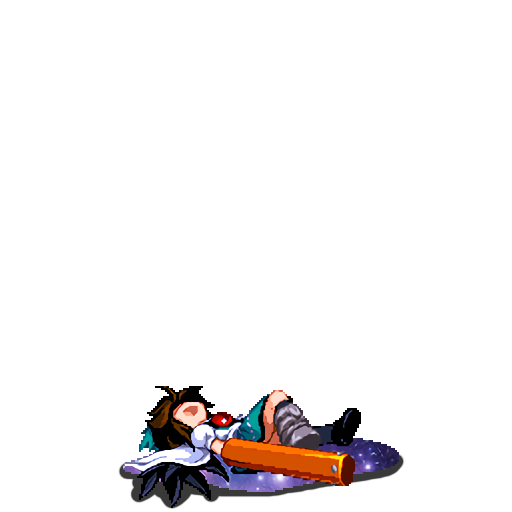
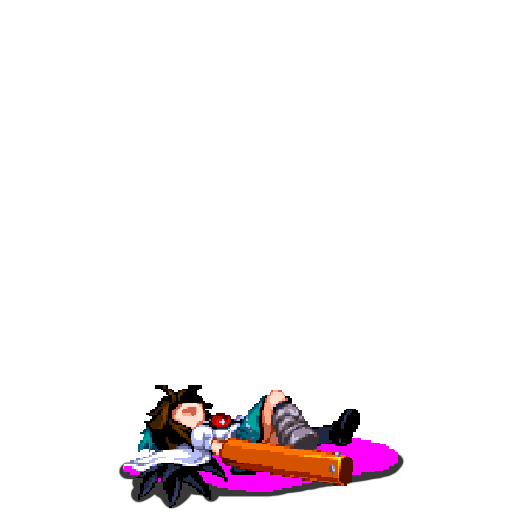
Added a downed animation, working on changing the Chroma Key from a patch to a character function

Changed region(s): [[0.2188, 0.75, 0.7812, 1.0]]

diff --git a/src/main/java/utsuhoReiuji/characters/UtsuhoReiuji.java b/src/main/java/utsuhoReiuji/characters/UtsuhoReiuji.java
@@ -3,9 +3,13 @@ package utsuhoReiuji.characters;
 import basemod.abstracts.CustomPlayer;
 import basemod.animations.SpineAnimation;
 import basemod.animations.SpriterAnimation;
+import com.badlogic.gdx.Gdx;
 import com.badlogic.gdx.graphics.Color;
+import com.badlogic.gdx.graphics.GL20;
 import com.badlogic.gdx.graphics.Texture;
 import com.badlogic.gdx.graphics.g2d.BitmapFont;
+import com.badlogic.gdx.graphics.g2d.SpriteBatch;
+import com.badlogic.gdx.graphics.glutils.ShaderProgram;
 import com.badlogic.gdx.math.MathUtils;
 import com.esotericsoftware.spine.AnimationState;
 import com.evacipated.cardcrawl.modthespire.lib.SpireEnum;
@@ -16,10 +20,15 @@ import com.megacrit.cardcrawl.characters.AbstractPlayer;
 import com.megacrit.cardcrawl.core.CardCrawlGame;
 import com.megacrit.cardcrawl.core.EnergyManager;
 import com.megacrit.cardcrawl.core.Settings;
+import com.megacrit.cardcrawl.dungeons.AbstractDungeon;
 import com.megacrit.cardcrawl.helpers.CardLibrary;
 import com.megacrit.cardcrawl.helpers.FontHelper;
 import com.megacrit.cardcrawl.helpers.ScreenShake;
 import com.megacrit.cardcrawl.localization.CharacterStrings;
+import com.megacrit.cardcrawl.orbs.AbstractOrb;
+import com.megacrit.cardcrawl.rooms.AbstractRoom;
+import com.megacrit.cardcrawl.rooms.MonsterRoom;
+import com.megacrit.cardcrawl.rooms.RestRoom;
 import com.megacrit.cardcrawl.screens.CharSelectInfo;
 import com.megacrit.cardcrawl.unlock.UnlockTracker;
 import org.apache.logging.log4j.LogManager;
@@ -32,6 +41,7 @@ import utsuhoReiuji.relics.PlaceholderRelic;
 import utsuhoReiuji.relics.PlaceholderRelic2;
 
 import java.util.ArrayList;
+import java.util.Iterator;
 
 import static utsuhoReiuji.OkuuMod.*;
 import static utsuhoReiuji.characters.UtsuhoReiuji.Enums.REIUJI_GREEN;
@@ -137,11 +147,13 @@ public class UtsuhoReiuji extends CustomPlayer {
 
         this.stateData.setMix("Idle", "PhysicalAttack", 0.2f);
         this.stateData.setMix("PhysicalAttack", "Idle", 0.2f);
+        this.stateData.setMix("Idle", "Death", 0.0f);
+        this.stateData.setMix("PhysicalAttack", "Death", 0.0f);
 
 
         AnimationState.TrackEntry e = state.setAnimation(0, "Idle", true);
         e.setTime(e.getEndTime() * MathUtils.random());
-//        e.setTimeScale(0.8f);
+        e.setTimeScale(1f);
 
         // =============== /ANIMATIONS/ =================
 
@@ -161,6 +173,7 @@ public class UtsuhoReiuji extends CustomPlayer {
     public void useFastAttackAnimation(){
         AnimationState.TrackEntry e = state.setAnimation(0, "PhysicalAttack", false);
         state.addAnimation(0,"Idle", true, 1.1f);
+        e.setTimeScale(1f);
     }
 
     @Override
@@ -169,13 +182,110 @@ public class UtsuhoReiuji extends CustomPlayer {
         if (info.owner != null && info.type != DamageInfo.DamageType.THORNS && info.output > currentBlock) {
             AnimationState.TrackEntry e = state.setAnimation(0, "Hit", false);
             state.addAnimation(0,"Idle", true, 0.3f);
-            //e.setTimeScale(1f);
+            e.setTimeScale(1f);
         }
         super.damage(info);
     }
 
+    @Override
+    public void playDeathAnimation(){
+        AnimationState.TrackEntry e = state.setAnimation(0, "Death", false);
+        e.setTimeScale(0.5f);
+        //state.addAnimation(0,"Death", false, 0f);
+    }
+
 
     // =========== /ATTACK AND HIT ANIMATIONS/ =====================
+
+    //====================== SHADERS ========================
+
+
+    public static ShaderProgram shader = new ShaderProgram(
+            Gdx.files.internal("E:/Game Projects/tools/shaders/vertexShader.vs"),
+            Gdx.files.internal("E:/Game Projects/tools/shaders/fragShader.fs")
+    );
+
+    private static Texture galaxyTexture = new Texture(Gdx.files.internal("utsuhoReiujiResources/images/char/okuuSprites/loopingGalaxy.png"));
+
+    public static float currentTime = 0.0f;
+
+    @Override
+    public void renderPlayerImage(SpriteBatch sb){
+        if (this.atlas != null) {
+            this.state.update(Gdx.graphics.getDeltaTime());
+            this.state.apply(this.skeleton);
+            this.skeleton.updateWorldTransform();
+            currentTime += Gdx.graphics.getDeltaTime();
+            shader.begin();
+            CardCrawlGame.psb.setShader(shader);
+            shader.setUniformf("Time", currentTime);
+            galaxyTexture.bind(1);
+            Gdx.gl.glTexParameterf(GL20.GL_TEXTURE_2D, GL20.GL_TEXTURE_WRAP_S, GL20.GL_REPEAT);
+            Gdx.gl.glTexParameterf(GL20.GL_TEXTURE_2D, GL20.GL_TEXTURE_WRAP_T, GL20.GL_REPEAT);
+            shader.setUniformi("u_galaxyTexture", 1);
+            Gdx.gl.glActiveTexture(GL20.GL_TEXTURE0);
+            this.skeleton.setPosition(this.drawX + this.animX, this.drawY + this.animY);
+            this.skeleton.setColor(this.tint.color);
+            this.skeleton.setFlip(this.flipHorizontal, this.flipVertical);
+            CardCrawlGame.psb.setShader(null);
+            shader.end();
+            sb.end();
+            CardCrawlGame.psb.begin();
+            sr.draw(CardCrawlGame.psb, this.skeleton);
+            CardCrawlGame.psb.end();
+            sb.begin();
+        } else {
+            sb.setColor(Color.WHITE);
+            sb.draw(this.img, this.drawX - (float)this.img.getWidth() * Settings.scale / 2.0F + this.animX, this.drawY, (float)this.img.getWidth() * Settings.scale, (float)this.img.getHeight() * Settings.scale, 0, 0, this.img.getWidth(), this.img.getHeight(), this.flipHorizontal, this.flipVertical);
+        }
+    }
+
+    /*@Override
+    public void render(SpriteBatch sb){
+        this.stance.render(sb);
+        if ((AbstractDungeon.getCurrRoom().phase == AbstractRoom.RoomPhase.COMBAT || AbstractDungeon.getCurrRoom() instanceof MonsterRoom) && !this.isDead) {
+            this.renderHealth(sb);
+            if (!this.orbs.isEmpty()) {
+                Iterator var2 = this.orbs.iterator();
+
+                while(var2.hasNext()) {
+                    AbstractOrb o = (AbstractOrb)var2.next();
+                    o.render(sb);
+                }
+            }
+        }
+
+        if (!(AbstractDungeon.getCurrRoom() instanceof RestRoom)) {
+            currentTime += Gdx.graphics.getDeltaTime();
+            if (atlas == null) {
+                shader.begin();
+                sb.setShader(shader);
+                shader.setUniformf("Time", currentTime);
+                galaxyTexture.bind(1);
+                Gdx.gl.glTexParameterf(GL20.GL_TEXTURE_2D, GL20.GL_TEXTURE_WRAP_S, GL20.GL_REPEAT);
+                Gdx.gl.glTexParameterf(GL20.GL_TEXTURE_2D, GL20.GL_TEXTURE_WRAP_T, GL20.GL_REPEAT);
+                shader.setUniformi("u_galaxyTexture", 1);
+                Gdx.gl.glActiveTexture(GL20.GL_TEXTURE0);
+            }
+            if (this.atlas != null) {
+
+                this.renderPlayerImage(sb);
+            } else {
+                sb.setColor(Color.WHITE);
+                sb.draw(this.img, this.drawX - (float)this.img.getWidth() * Settings.scale / 2.0F + this.animX, this.drawY, (float)this.img.getWidth() * Settings.scale, (float)this.img.getHeight() * Settings.scale, 0, 0, this.img.getWidth(), this.img.getHeight(), this.flipHorizontal, this.flipVertical);
+            }
+            if (atlas == null) {
+                sb.setShader(null);
+                shader.end();
+            }
+            this.hb.render(sb);
+            this.healthHb.render(sb);
+        } else {
+            sb.setColor(Color.WHITE);
+            this.renderShoulderImg(sb);
+        }
+    }*/
+    // ===================== /SHADERS/ =====================
 
     // =============== /CHARACTER CLASS END/ =================
 

diff --git a/src/main/java/utsuhoReiuji/OkuuMod.java b/src/main/java/utsuhoReiuji/OkuuMod.java
@@ -29,8 +29,6 @@ import utsuhoReiuji.cards.*;
 import utsuhoReiuji.cards.defaultCards.*;
 import utsuhoReiuji.characters.UtsuhoReiuji;
 import utsuhoReiuji.events.IdentityCrisisEvent;
-import utsuhoReiuji.patches.GalaxyChromaKeyRenderPatch;
-import utsuhoReiuji.patches.GalaxyChromaKeySkeletonPatch;
 import utsuhoReiuji.potions.PlaceholderPotion;
 import utsuhoReiuji.relics.BottledPlaceholderRelic;
 import utsuhoReiuji.relics.DefaultClickableRelic;
@@ -81,8 +79,7 @@ public class OkuuMod implements
         EditStringsSubscriber,
         EditKeywordsSubscriber,
         EditCharactersSubscriber,
-        PostInitializeSubscriber,
-        PostUpdateSubscriber {
+        PostInitializeSubscriber{
     // Make sure to implement the subscribers *you* are using (read basemod wiki). Editing cards? EditCardsSubscriber.
     // Making relics? EditRelicsSubscriber. etc., etc., for a full list and how to make your own, visit the basemod wiki.
     public static final Logger logger = LogManager.getLogger(OkuuMod.class.getName());
@@ -560,7 +557,7 @@ public class OkuuMod implements
     }
 
 
-    //TODO remember to remove this post debugging
+/*    //TODO remember to remove this post debugging
     @Override
     public void receivePostUpdate() {
         if (Gdx.input.isKeyJustPressed(Input.Keys.R)) {
@@ -576,7 +573,7 @@ public class OkuuMod implements
                     Gdx.files.internal("E:/Game Projects/tools/shaders/fragShader.fs")
             );
         }
-    }
+    }*/
 }
 
 //                                                            /*&&&&

diff --git a/src/main/java/utsuhoReiuji/patches/GalaxyChromaKeyRenderPatch.java b/src/main/java/utsuhoReiuji/patches/GalaxyChromaKeyRenderPatch.java
@@ -1,4 +1,4 @@
-package utsuhoReiuji.patches;
+/*package utsuhoReiuji.patches;
 
 import com.badlogic.gdx.Gdx;
 import com.badlogic.gdx.graphics.GL20;
@@ -12,6 +12,7 @@ import com.esotericsoftware.spine.SkeletonMeshRenderer;
 import com.evacipated.cardcrawl.modthespire.lib.*;
 import com.megacrit.cardcrawl.characters.AbstractPlayer;
 import com.megacrit.cardcrawl.core.CardCrawlGame;
+import com.megacrit.cardcrawl.helpers.Hitbox;
 import com.megacrit.cardcrawl.monsters.AbstractMonster;
 import javassist.CtBehavior;
 
@@ -80,8 +81,9 @@ public class GalaxyChromaKeyRenderPatch {
         @Override
         public int[] Locate(CtBehavior ctMethodToPatch) throws Exception
         {
-            Matcher finalMatcher = new Matcher.FieldAccessMatcher(AbstractPlayer.class, "isDead");
+            Matcher finalMatcher = new Matcher.MethodCallMatcher(Hitbox.class, "render");
             return LineFinder.findInOrder(ctMethodToPatch, finalMatcher);
         }
     }
 }
+*/

diff --git a/SpriteworkWIPs/ExtractedSpritesSorter.py b/SpriteworkWIPs/ExtractedSpritesSorter.py
@@ -8,10 +8,10 @@ import os
 # Function to rename multiple files 
 def main(): 
   
-    for count, filename in enumerate(os.listdir("ExtractedSpritesAttack")): 
-        dst ="okuu_attack" + '{:02}'.format(count) + ".png"
-        src ='ExtractedSpritesAttack/'+ filename 
-        dst ='ExtractedSpritesAttack/'+ dst 
+    for count, filename in enumerate(os.listdir("ExtractedSpritesDown")): 
+        dst ="okuu_down" + '{:02}'.format(count) + ".png"
+        src ='ExtractedSpritesDown/'+ filename 
+        dst ='ExtractedSpritesDown/'+ dst 
           
         # rename() function will 
         # rename all the files 

diff --git a/src/main/java/utsuhoReiuji/patches/GalaxyChromaKeySkeletonPatch.java b/src/main/java/utsuhoReiuji/patches/GalaxyChromaKeySkeletonPatch.java
@@ -1,4 +1,4 @@
-package utsuhoReiuji.patches;
+/*package utsuhoReiuji.patches;
 
 import com.badlogic.gdx.Gdx;
 import com.badlogic.gdx.graphics.GL20;
@@ -76,3 +76,4 @@ public class GalaxyChromaKeySkeletonPatch {
         }
     }
 }
+*/
